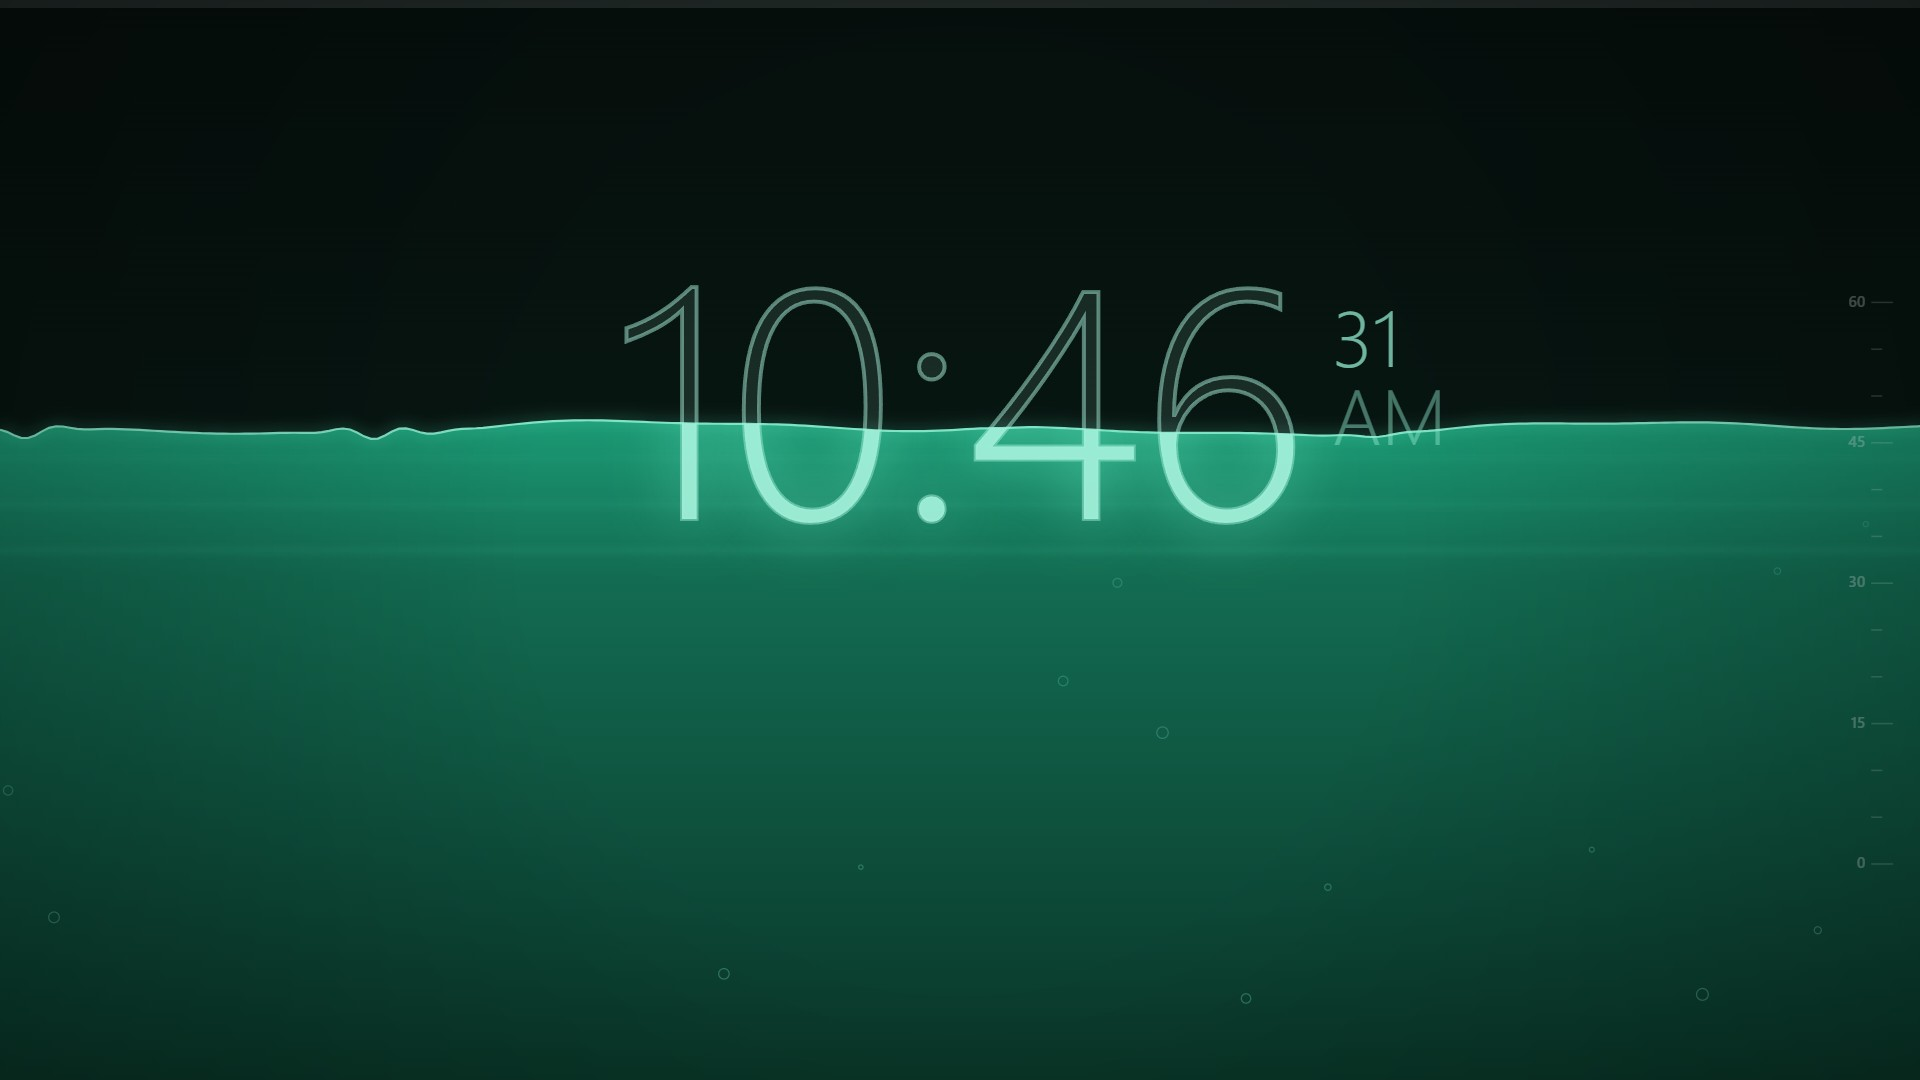
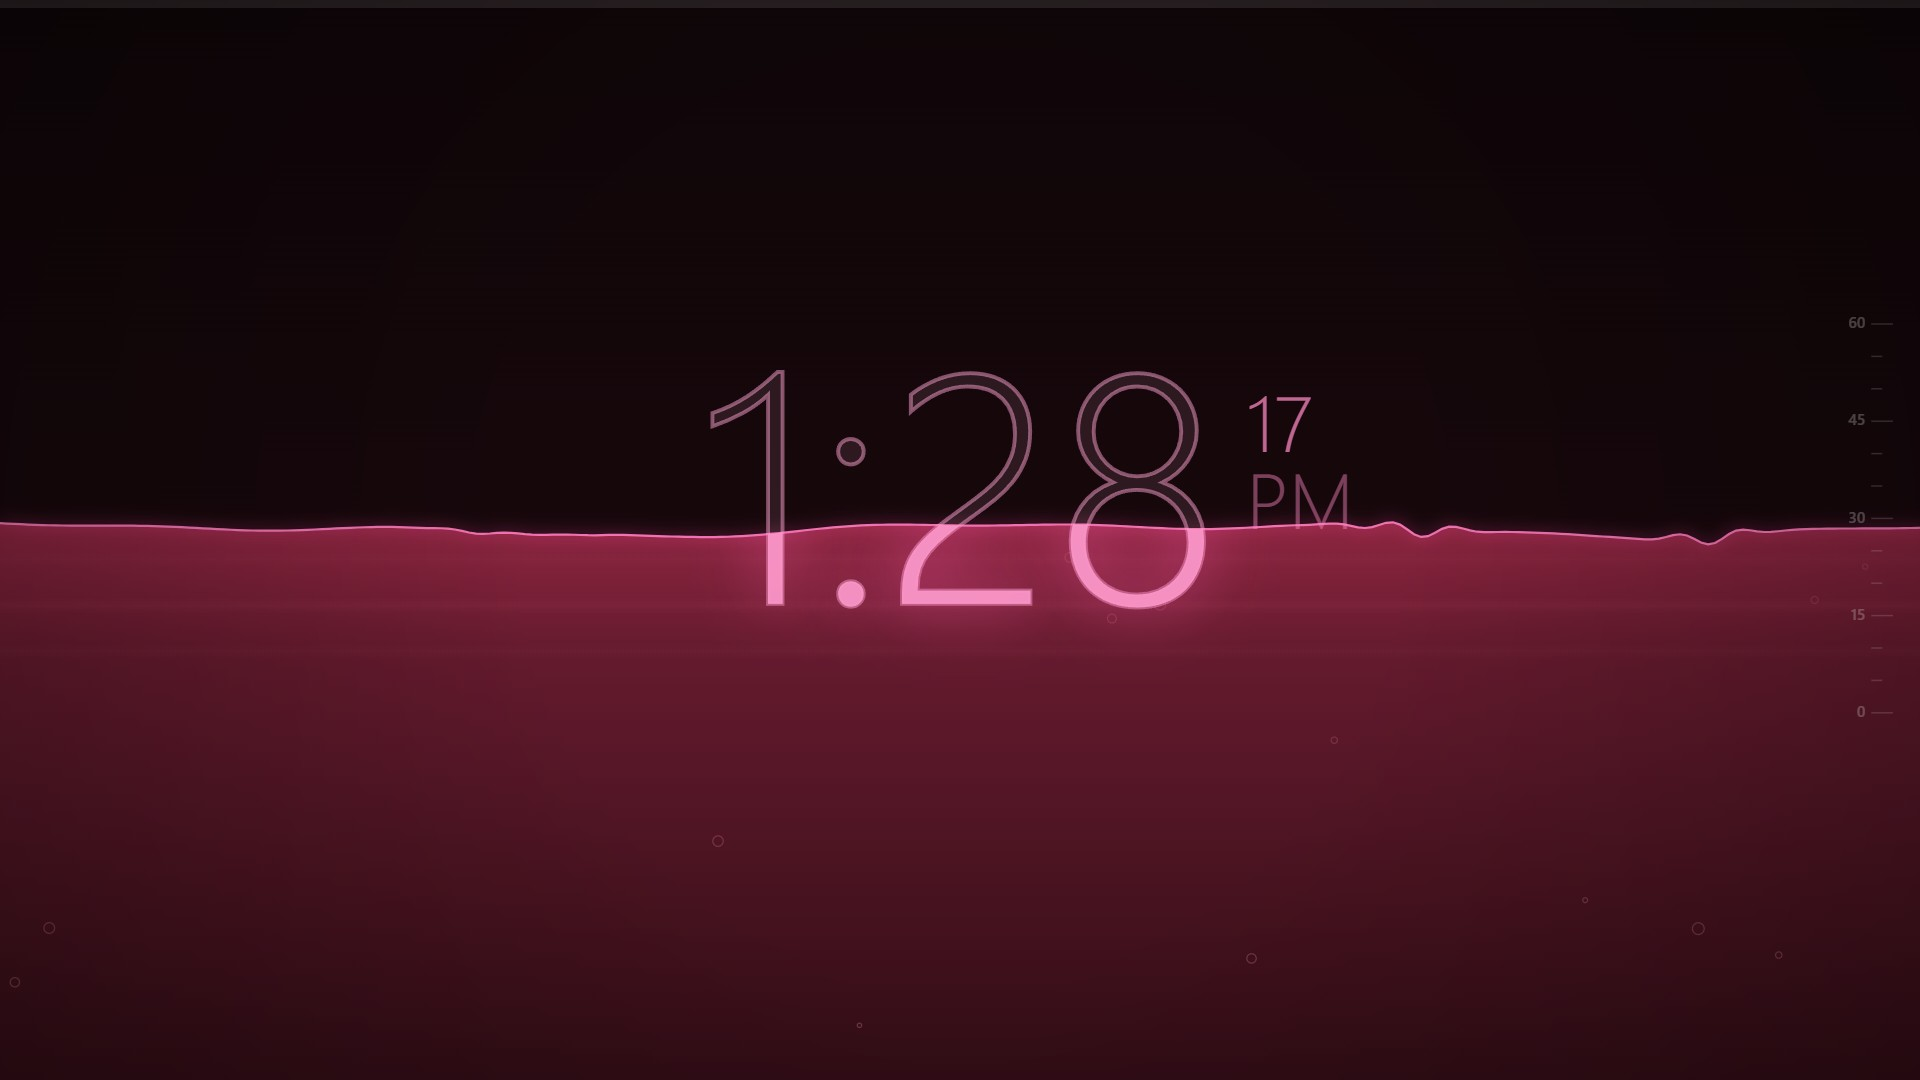
Liquid: color presets (incl. Gothic Rose) + waterline climbs the digits
Press C on the Liquid face to cycle seven color presets — Auto (24h hue
drift), Tidepool Teal, Deep Ocean, Ultraviolet, Gothic Rose (maroon body,
pink glow), Molten Ember, Reactor Acid. Choice persists in localStorage;
an on-canvas label confirms the switch.

Level mapping re-anchored to the digits per feedback: just below them at
:00, halfway up at :30, fully over them by ~:48 and drowned through :59,
then the rollover surge lets go. Digits no longer ride the surface; the
minute gauge matches the new range.

Verified: Gothic Rose at :59 shows digits fully submerged and glowing;
at :26-:28 the waterline bisects the glyphs. 61fps, no console errors.

diff --git a/js/faces/liquid.js b/js/faces/liquid.js
@@ -1,15 +1,34 @@
 /* LIQUID — reactive liquid clock. The pool level IS the minute hand:
- * it rises through the hour and surges back at the top of it. A droplet
- * falls each second and raises a real traveling ripple; glass digits
- * float half-submerged on the waterline; bubbles climb; the liquid's hue
- * drifts around the color wheel over 24 hours. Move the mouse to stir
- * the surface — it ripples back. */
+ * it rises through the hour and swallows the digits entirely by :59
+ * before the rollover surge lets it go. A droplet falls each second and
+ * raises a real traveling ripple; digits glow where submerged; bubbles
+ * climb; mouse movement stirs the surface.
+ * Color: press C to cycle presets (saved), or Auto drifts the hue
+ * around the color wheel over 24 hours. */
 "use strict";
 
 (() => {
+  const PRESETS = [
+    { id: "auto", label: "Auto · 24h drift" },
+    { id: "teal", label: "Tidepool Teal", hue: 172, sat: 70 },
+    { id: "ocean", label: "Deep Ocean", hue: 207, sat: 75 },
+    { id: "violet", label: "Ultraviolet", hue: 268, sat: 72 },
+    { id: "gothic", label: "Gothic Rose", hue: 345, sat: 58, glowHue: 330, glowSat: 90 },
+    { id: "ember", label: "Molten Ember", hue: 22, sat: 85 },
+    { id: "acid", label: "Reactor Acid", hue: 96, sat: 78 }
+  ];
+  const COLOR_KEY = "clox.liquid.color";
+
+  let presetIdx = Math.max(0, PRESETS.findIndex(p => {
+    try { return p.id === localStorage.getItem(COLOR_KEY); } catch { return false; }
+  }));
+  let colorChangedAt = -1e9;
+  let lastDrawTs = -1e9;
+
   const impulses = [];          // {x, t0, amp}
   let lastSec = -1, lastHour = -1;
   const mouse = { x: -1, y: -1, lastT: 0 };
+
   window.addEventListener("mousemove", (e) => {
     const now = performance.now();
     if (now - mouse.lastT > 130 && (Math.abs(e.clientX - mouse.x) > 4 || Math.abs(e.clientY - mouse.y) > 4)) {
@@ -19,6 +38,15 @@
     }
     mouse.x = e.clientX;
     mouse.y = e.clientY;
+  });
+
+  // Face-scoped key: only reacts while this face is being drawn.
+  window.addEventListener("keydown", (e) => {
+    if ((e.key === "c" || e.key === "C") && performance.now() - lastDrawTs < 250) {
+      presetIdx = (presetIdx + 1) % PRESETS.length;
+      colorChangedAt = performance.now();
+      try { localStorage.setItem(COLOR_KEY, PRESETS[presetIdx].id); } catch { }
+    }
   });
 
   const hash = (i) => {
@@ -35,8 +63,7 @@
       const age = (now - im.t0) / 1000;
       if (age < 0 || age > 3) continue;
       const d = Math.abs(x - im.x);
-      const front = 300 * age;
-      const dd = d - front;
+      const dd = d - 300 * age;
       y += im.amp * Math.exp(-(dd * dd) / 1800) * Math.cos(dd * 0.09) * Math.exp(-age * 1.4);
     }
     return y;
@@ -47,10 +74,16 @@
     name: "Liquid · Reactive Pool",
 
     draw(ctx, W, H, d, settings, now) {
+      lastDrawTs = now;
       const t = U.timeParts(d, settings.h24);
-      const tf24 = t.H + t.m / 60;
-      const hue = Math.round((tf24 / 24) * 360);
-      const C = (l, a = 1, s = 70) => `hsla(${hue}, ${s}%, ${l}%, ${a})`;
+
+      const preset = PRESETS[presetIdx];
+      const hue = preset.hue ?? Math.round(((t.H + t.m / 60) / 24) * 360);
+      const sat = preset.sat ?? 70;
+      const gHue = preset.glowHue ?? hue;
+      const gSat = preset.glowSat ?? sat;
+      const C = (l, a = 1) => `hsla(${hue}, ${sat}%, ${l}%, ${a})`;   // body
+      const G = (l, a = 1) => `hsla(${gHue}, ${gSat}%, ${l}%, ${a})`; // glow/digits
 
       // Deep basin.
       let g = ctx.createLinearGradient(0, 0, 0, H);
@@ -59,9 +92,11 @@
       ctx.fillStyle = g;
       ctx.fillRect(0, 0, W, H);
 
-      // Level: minute progress through the hour (rises bottom → up).
+      // Level: the waterline climbs the digits through the hour — just
+      // below them at :00, halfway up at :30, fully over them by ~:48
+      // and drowned through :59 (digits span ~0.37H–0.59H).
       const prog = (t.m + t.fs / 60) / 60;
-      const level = H * (0.80 - prog * 0.52);
+      const level = H * (0.66 - prog * 0.36);
 
       // Hour rollover: the pool surges as it lets go.
       if (t.H !== lastHour) {
@@ -84,9 +119,9 @@
       const fp = U.clamp(t.ms / FALL, 0, 1);
       if (fp < 1) {
         const dy = (level - 20) * fp * fp;          // gravity
-        ctx.fillStyle = C(72, 0.95);
+        ctx.fillStyle = G(72, 0.95);
         ctx.save();
-        ctx.shadowColor = C(60);
+        ctx.shadowColor = G(60);
         ctx.shadowBlur = 10;
         ctx.beginPath();
         ctx.ellipse(dropX, 14 + dy, 4, 7 + fp * 5, 0, 0, U.TAU);
@@ -118,7 +153,7 @@
       ctx.fillStyle = g;
       ctx.fill();
 
-      // Bubbles rising inside the liquid.
+      // Bubbles + caustic shimmer inside the liquid.
       ctx.save();
       liquidPath();
       ctx.clip();
@@ -127,14 +162,12 @@
         const p = (now * 0.001 * sp + hash(i + 50)) % 1;
         const bx = hash(i + 7) * W + Math.sin(now * 0.001 + i * 2) * 14;
         const by = H - p * (H - level - 10);
-        const br = 2 + hash(i + 13) * 4;
         ctx.strokeStyle = C(70, 0.35 * (1 - p * 0.5));
         ctx.lineWidth = 1.2;
         ctx.beginPath();
-        ctx.arc(bx, by, br, 0, U.TAU);
+        ctx.arc(bx, by, 2 + hash(i + 13) * 4, 0, U.TAU);
         ctx.stroke();
       }
-      // Caustic shimmer bands under the surface.
       for (let i = 0; i < 3; i++) {
         const cy2 = level + 30 + i * 46;
         g = ctx.createLinearGradient(0, cy2 - 8, 0, cy2 + 8);
@@ -146,11 +179,11 @@
       }
       ctx.restore();
 
-      // Glowing surface line traced along the samples.
+      // Glowing surface line.
       ctx.save();
-      ctx.shadowColor = C(62);
+      ctx.shadowColor = G(62);
       ctx.shadowBlur = 14;
-      ctx.strokeStyle = C(72, 0.95);
+      ctx.strokeStyle = G(72, 0.95);
       ctx.lineWidth = 2.2;
       ctx.beginPath();
       ctx.moveTo(pts[0][0], pts[0][1]);
@@ -158,42 +191,41 @@
       ctx.stroke();
       ctx.restore();
 
-      // ---- Floating time: glass above the line, luminous below ----
+      // ---- The time: anchored mid-screen so the rising water overtakes
+      // it — glass above the surface, luminous below, drowned by :59. ----
       const cxx = W / 2;
-      const bob = surfaceY(cxx, level, now) - level;
-      const baseY = level + bob;
+      const baseY = H * 0.48 + Math.sin(now * 0.0012) * H * 0.008;
       const fs = Math.min(W * 0.17, H * 0.30);
-      const font = `200 ${fs}px "Segoe UI Light", "Segoe UI", sans-serif`;
       const hs = settings.h24 ? U.pad2(t.H) : String(t.h);
       const str = `${hs}:${U.pad2(t.m)}`;
-      ctx.font = font;
+      ctx.font = `200 ${fs}px "Segoe UI Light", "Segoe UI", sans-serif`;
       ctx.textAlign = "center";
       ctx.textBaseline = "middle";
       // Glass shell (visible above water).
-      ctx.strokeStyle = C(80, 0.5);
+      ctx.strokeStyle = G(80, 0.5);
       ctx.lineWidth = Math.max(1.5, fs * 0.012);
       ctx.strokeText(str, cxx, baseY);
-      ctx.fillStyle = C(85, 0.10);
+      ctx.fillStyle = G(85, 0.10);
       ctx.fillText(str, cxx, baseY);
       // Submerged glow (clipped to the liquid).
       ctx.save();
       liquidPath();
       ctx.clip();
-      ctx.shadowColor = C(65);
+      ctx.shadowColor = G(65);
       ctx.shadowBlur = fs * 0.18;
-      ctx.fillStyle = C(78, 0.95);
+      ctx.fillStyle = G(78, 0.95);
       ctx.fillText(str, cxx, baseY);
       ctx.restore();
 
-      // Small seconds + AM/PM, floating to the right of the time.
+      // Small seconds + AM/PM beside the time.
       if (settings.seconds) {
         const m = ctx.measureText(str);
         ctx.font = `300 ${fs * 0.24}px "Segoe UI", sans-serif`;
         ctx.textAlign = "left";
-        ctx.fillStyle = C(75, 0.75);
+        ctx.fillStyle = G(75, 0.75);
         ctx.fillText(U.pad2(t.s), cxx + m.width / 2 + fs * 0.08, baseY - fs * 0.26);
         if (!settings.h24) {
-          ctx.fillStyle = C(75, 0.45);
+          ctx.fillStyle = G(75, 0.45);
           ctx.fillText(t.pm ? "PM" : "AM", cxx + m.width / 2 + fs * 0.08, baseY - fs * 0.02);
         }
       }
@@ -207,7 +239,7 @@
       ctx.textAlign = "right";
       ctx.textBaseline = "middle";
       for (let mm = 0; mm <= 60; mm += 5) {
-        const yy = H * 0.80 - (mm / 60) * H * 0.52;
+        const yy = H * 0.66 - (mm / 60) * H * 0.36;
         const wnd = mm % 15 === 0 ? H * 0.020 : H * 0.010;
         ctx.beginPath();
         ctx.moveTo(gx, yy);
@@ -219,6 +251,18 @@
       // Ceiling drip fixture.
       ctx.fillStyle = "rgba(255, 255, 255, 0.10)";
       ctx.fillRect(0, 0, W, 8);
+
+      // Color-change label (fades after a moment).
+      const since = now - colorChangedAt;
+      if (since < 1800) {
+        ctx.globalAlpha = U.clamp(1 - (since - 1200) / 600, 0, 1);
+        ctx.font = `500 ${Math.max(13, H * 0.022)}px "Segoe UI", sans-serif`;
+        ctx.textAlign = "center";
+        ctx.textBaseline = "top";
+        ctx.fillStyle = G(80, 0.9);
+        ctx.fillText(`color · ${preset.label}`, W / 2, H * 0.05);
+        ctx.globalAlpha = 1;
+      }
 
       // Vignette.
       g = ctx.createRadialGradient(W / 2, H / 2, Math.min(W, H) * 0.4, W / 2, H / 2, Math.max(W, H) * 0.8);

diff --git a/index.html b/index.html
@@ -36,6 +36,7 @@
   <span class="k">S</span> seconds &nbsp;·&nbsp;
   <span class="k">H</span> 12/24h &nbsp;·&nbsp;
   <span class="k">A</span> auto-cycle &nbsp;·&nbsp;
+  <span class="k">C</span> liquid color &nbsp;·&nbsp;
   <span class="k">?</span> help
 </div>
 </body>

diff --git a/README.md b/README.md
@@ -19,7 +19,7 @@ Resolution-independent: everything is drawn relative to the window size with
 | ![Berlin](screenshots/berlin.jpg) **Berlin · Mengenlehreuhr** — the 1975 set-theory clock: blinking seconds lamp, 5-hour and 1-hour red rows, 5-minute row with red quarters, 1-minute yellow row | ![Regulator](screenshots/regulator.jpg) **Regulator · Pendulum** — watchmaker's regulator dial (central minute hand, hour + seconds sub-dials) with a swinging brass pendulum in a walnut case |
 | ![Nelson](screenshots/nelson.jpg) **Nelson · Ball Clock** — the 1949 mid-century starburst: lacquered balls on brass spokes, paddle hour hand, elliptical minute tip | ![Polar](screenshots/polar.jpg) **Polar · Radial Arcs** — modern concentric progress arcs for hours/minutes/seconds with glowing endpoints and a thin digital readout |
 | ![Ocarina](screenshots/ocarina.jpg) **Ocarina · Hyrule Field** — world clock: real day/night sky with arcing sun and moon, smoke-ringed volcano, blue-roofed castle, blue-ceramic gold-banded dial with rupee markers, and a wandering fairy | ![Grimdark](screenshots/grimdark.jpg) **Grimdark · M41** — brass cog, parchment dial, servo-skull at twelve with burning eyes, blade hands, wax purity seal, rising embers, and a real Imperial datestamp |
-| ![Sundial](screenshots/sundial.jpg) **Sundial · Garden Stone** — the gnomon's shadow IS the clock: 15°/hour across engraved Roman hour lines, longer toward dawn and dusk; moon-shadow and fireflies after dark | ![Liquid](screenshots/liquid.jpg) **Liquid · Reactive Pool** — the water level is the minute hand; a droplet splashes real ripples every second, digits float half-submerged, hue drifts over 24h, and the surface stirs when you move the mouse |
+| ![Sundial](screenshots/sundial.jpg) **Sundial · Garden Stone** — the gnomon's shadow IS the clock: 15°/hour across engraved Roman hour lines, longer toward dawn and dusk; moon-shadow and fireflies after dark | ![Liquid](screenshots/liquid.jpg) **Liquid · Reactive Pool** — the waterline climbs the digits through the hour (halfway up at :30, drowning them by :59); a droplet splashes real ripples every second, the surface stirs when you move the mouse, and `C` cycles color presets (Auto 24h drift, Tidepool Teal, Deep Ocean, Ultraviolet, Gothic Rose, Molten Ember, Reactor Acid) |
 
 ## Run it
 
@@ -37,6 +37,7 @@ While fullscreen, clox requests a screen wake lock so the display stays on.
 | `S` | Toggle seconds |
 | `H` | Toggle 12/24-hour |
 | `A` | Auto-cycle faces every 2 minutes |
+| `C` | Cycle color preset (Liquid face) |
 | `?` | Show help |
 
 Settings and the last face persist in `localStorage`.
